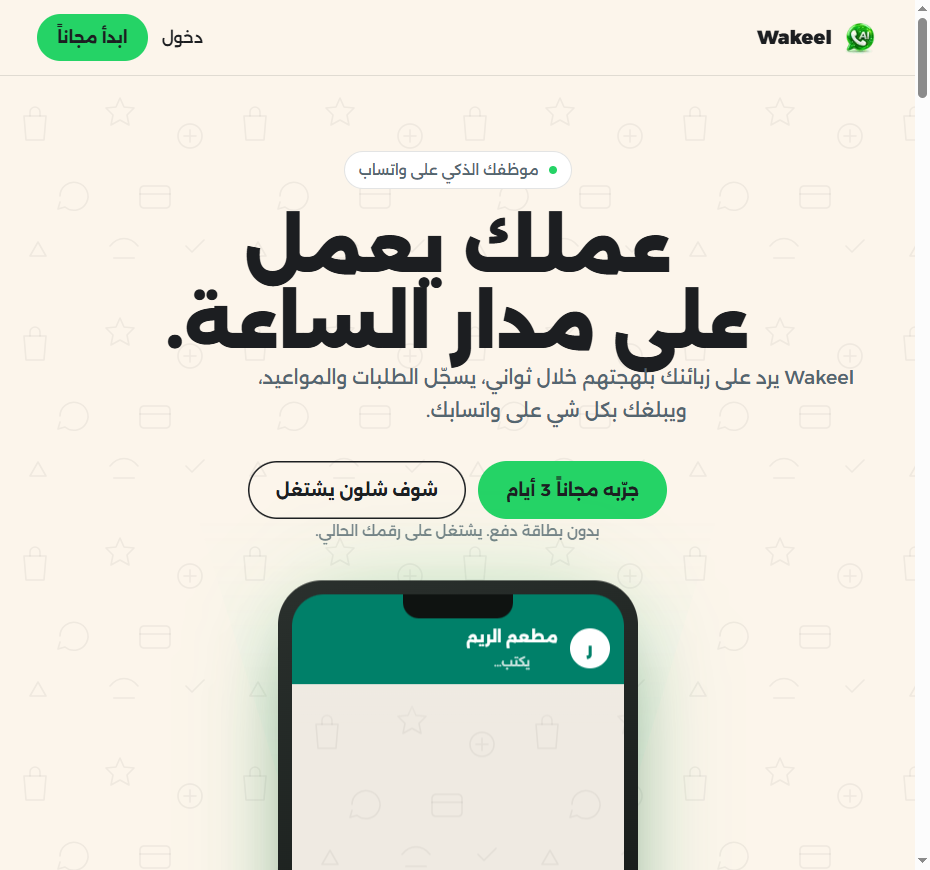
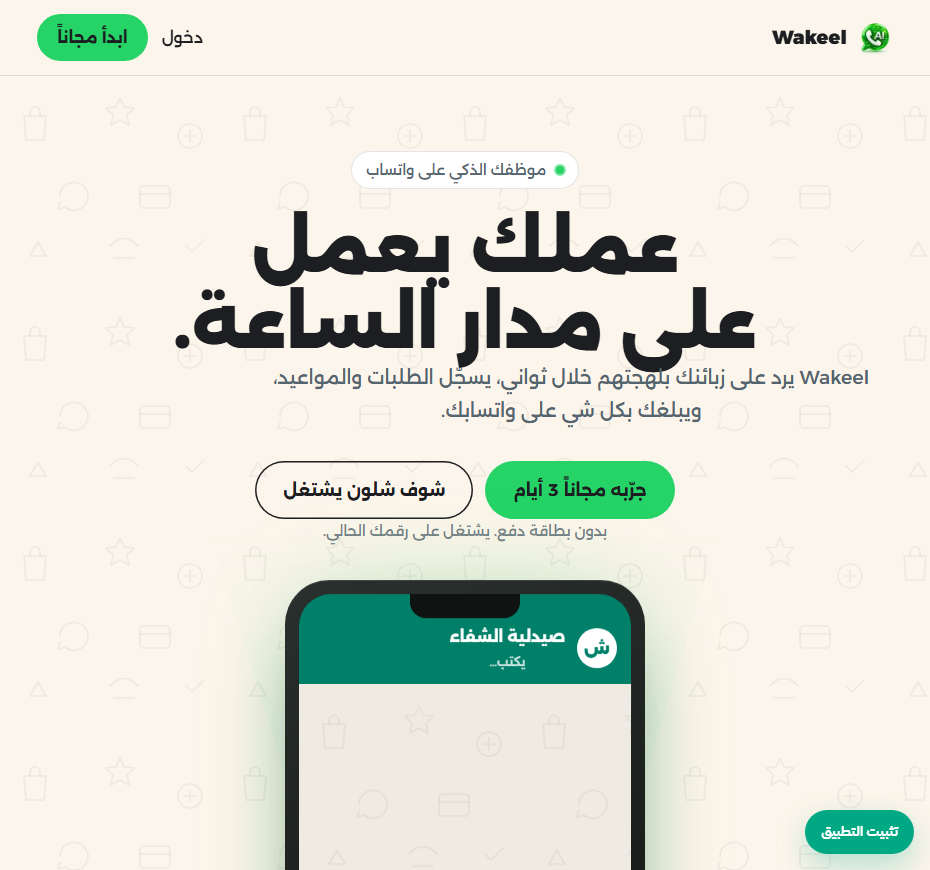
fix: refresh project screenshots from redesigned about pages and link clinic to /about

diff --git a/src/data/projects.ts b/src/data/projects.ts
@@ -16,7 +16,7 @@ export const defaultProjects: Project[] = [
   { href: 'https://masar-school.vercel.app/about', img: '/images/pf-masar.png', catAr: 'نظام SaaS للمدارس', catEn: 'School Management SaaS', nameAr: 'مسار — إدارة المدارس الأهلية', nameEn: 'Masar — Private School Management', descAr: 'منصة SaaS متكاملة للمدارس الأهلية — هويات الطلاب بالباركود، الأقساط، رواتب الموظفين وبوابة أولياء الأمور', descEn: 'Integrated SaaS platform for private schools — student QR IDs, tuition payments, staff payroll & parent portal' },
   { href: 'https://carecar.online/about', img: '/images/pf-carecar.png', catAr: 'نظام SaaS للسيارات', catEn: 'Car Management SaaS', nameAr: 'كير كار — إدارة مراكز السيارات', nameEn: 'CareCar — Car Service Management', descAr: 'منصة SaaS متكاملة لإدارة مراكز صيانة وغسيل السيارات — المواعيد، العملاء، الفواتير والتقارير', descEn: 'Integrated SaaS platform for car service & wash centers — appointments, clients, billing & reports' },
   { href: 'https://alhql-aldhky.vercel.app/dashboard', img: '/images/pf-farm.png', catAr: 'نظام زراعي ذكي', catEn: 'Smart Farm System', nameAr: 'الحقل الذكي — إدارة المواشي', nameEn: 'Smart Farm — Livestock Management', descAr: 'نظام ذكاء اصطناعي متكامل لإدارة الدواجن والأغنام والأبقار — صحة الحيوان، التغذية، الإنتاج واللقاحات', descEn: 'AI-powered system for managing poultry, sheep & cattle — health monitoring, feeding, production & vaccinations' },
-  { href: 'https://www.clinic-ai-pro.com/', img: '/images/pf-clinic.jpg', catAr: 'نظام طبي', catEn: 'Medical System', nameAr: 'كلينيك — إدارة العيادات', nameEn: 'Clinicplt — Clinic Management', descAr: 'نظام SaaS متكامل للعيادات والمراكز الطبية', descEn: 'Integrated SaaS system for clinics and medical centers' },
+  { href: 'https://www.clinic-ai-pro.com/about', img: '/images/pf-clinic.png', catAr: 'نظام طبي', catEn: 'Medical System', nameAr: 'كلينيك — إدارة العيادات', nameEn: 'Clinicplt — Clinic Management', descAr: 'نظام SaaS متكامل للعيادات والمراكز الطبية', descEn: 'Integrated SaaS system for clinics and medical centers' },
   { href: 'https://kyn-app.vercel.app/', img: '/images/pf-kyn.jpg', catAr: 'تطبيق ذكي', catEn: 'Smart App', nameAr: 'KYN App', nameEn: 'KYN App', descAr: 'منصة ذكية متكاملة بتجربة مستخدم احترافية', descEn: 'Integrated smart platform with professional UX', hidden: true },
   { href: 'https://darbonna-taxi.vercel.app/', img: '/images/pf-darbonna.jpg', catAr: 'تطبيق نقل', catEn: 'Transport App', nameAr: 'Darbonna Taxi', nameEn: 'Darbonna Taxi', descAr: 'منصة حجز سيارات أجرة ذكية مع تتبع مباشر', descEn: 'Smart taxi booking platform with live tracking' },
   { href: 'https://superlative-cheesecake-4963e9.netlify.app/', img: '/images/pf-salon.jpg', catAr: 'موقع تجاري', catEn: 'Business Website', nameAr: 'صالون كلاس تكريت', nameEn: 'Salon Class Tikrit', descAr: 'موقع صالون تجميل فاخر مع نظام حجوزات', descEn: 'Luxury beauty salon website with booking system' },
